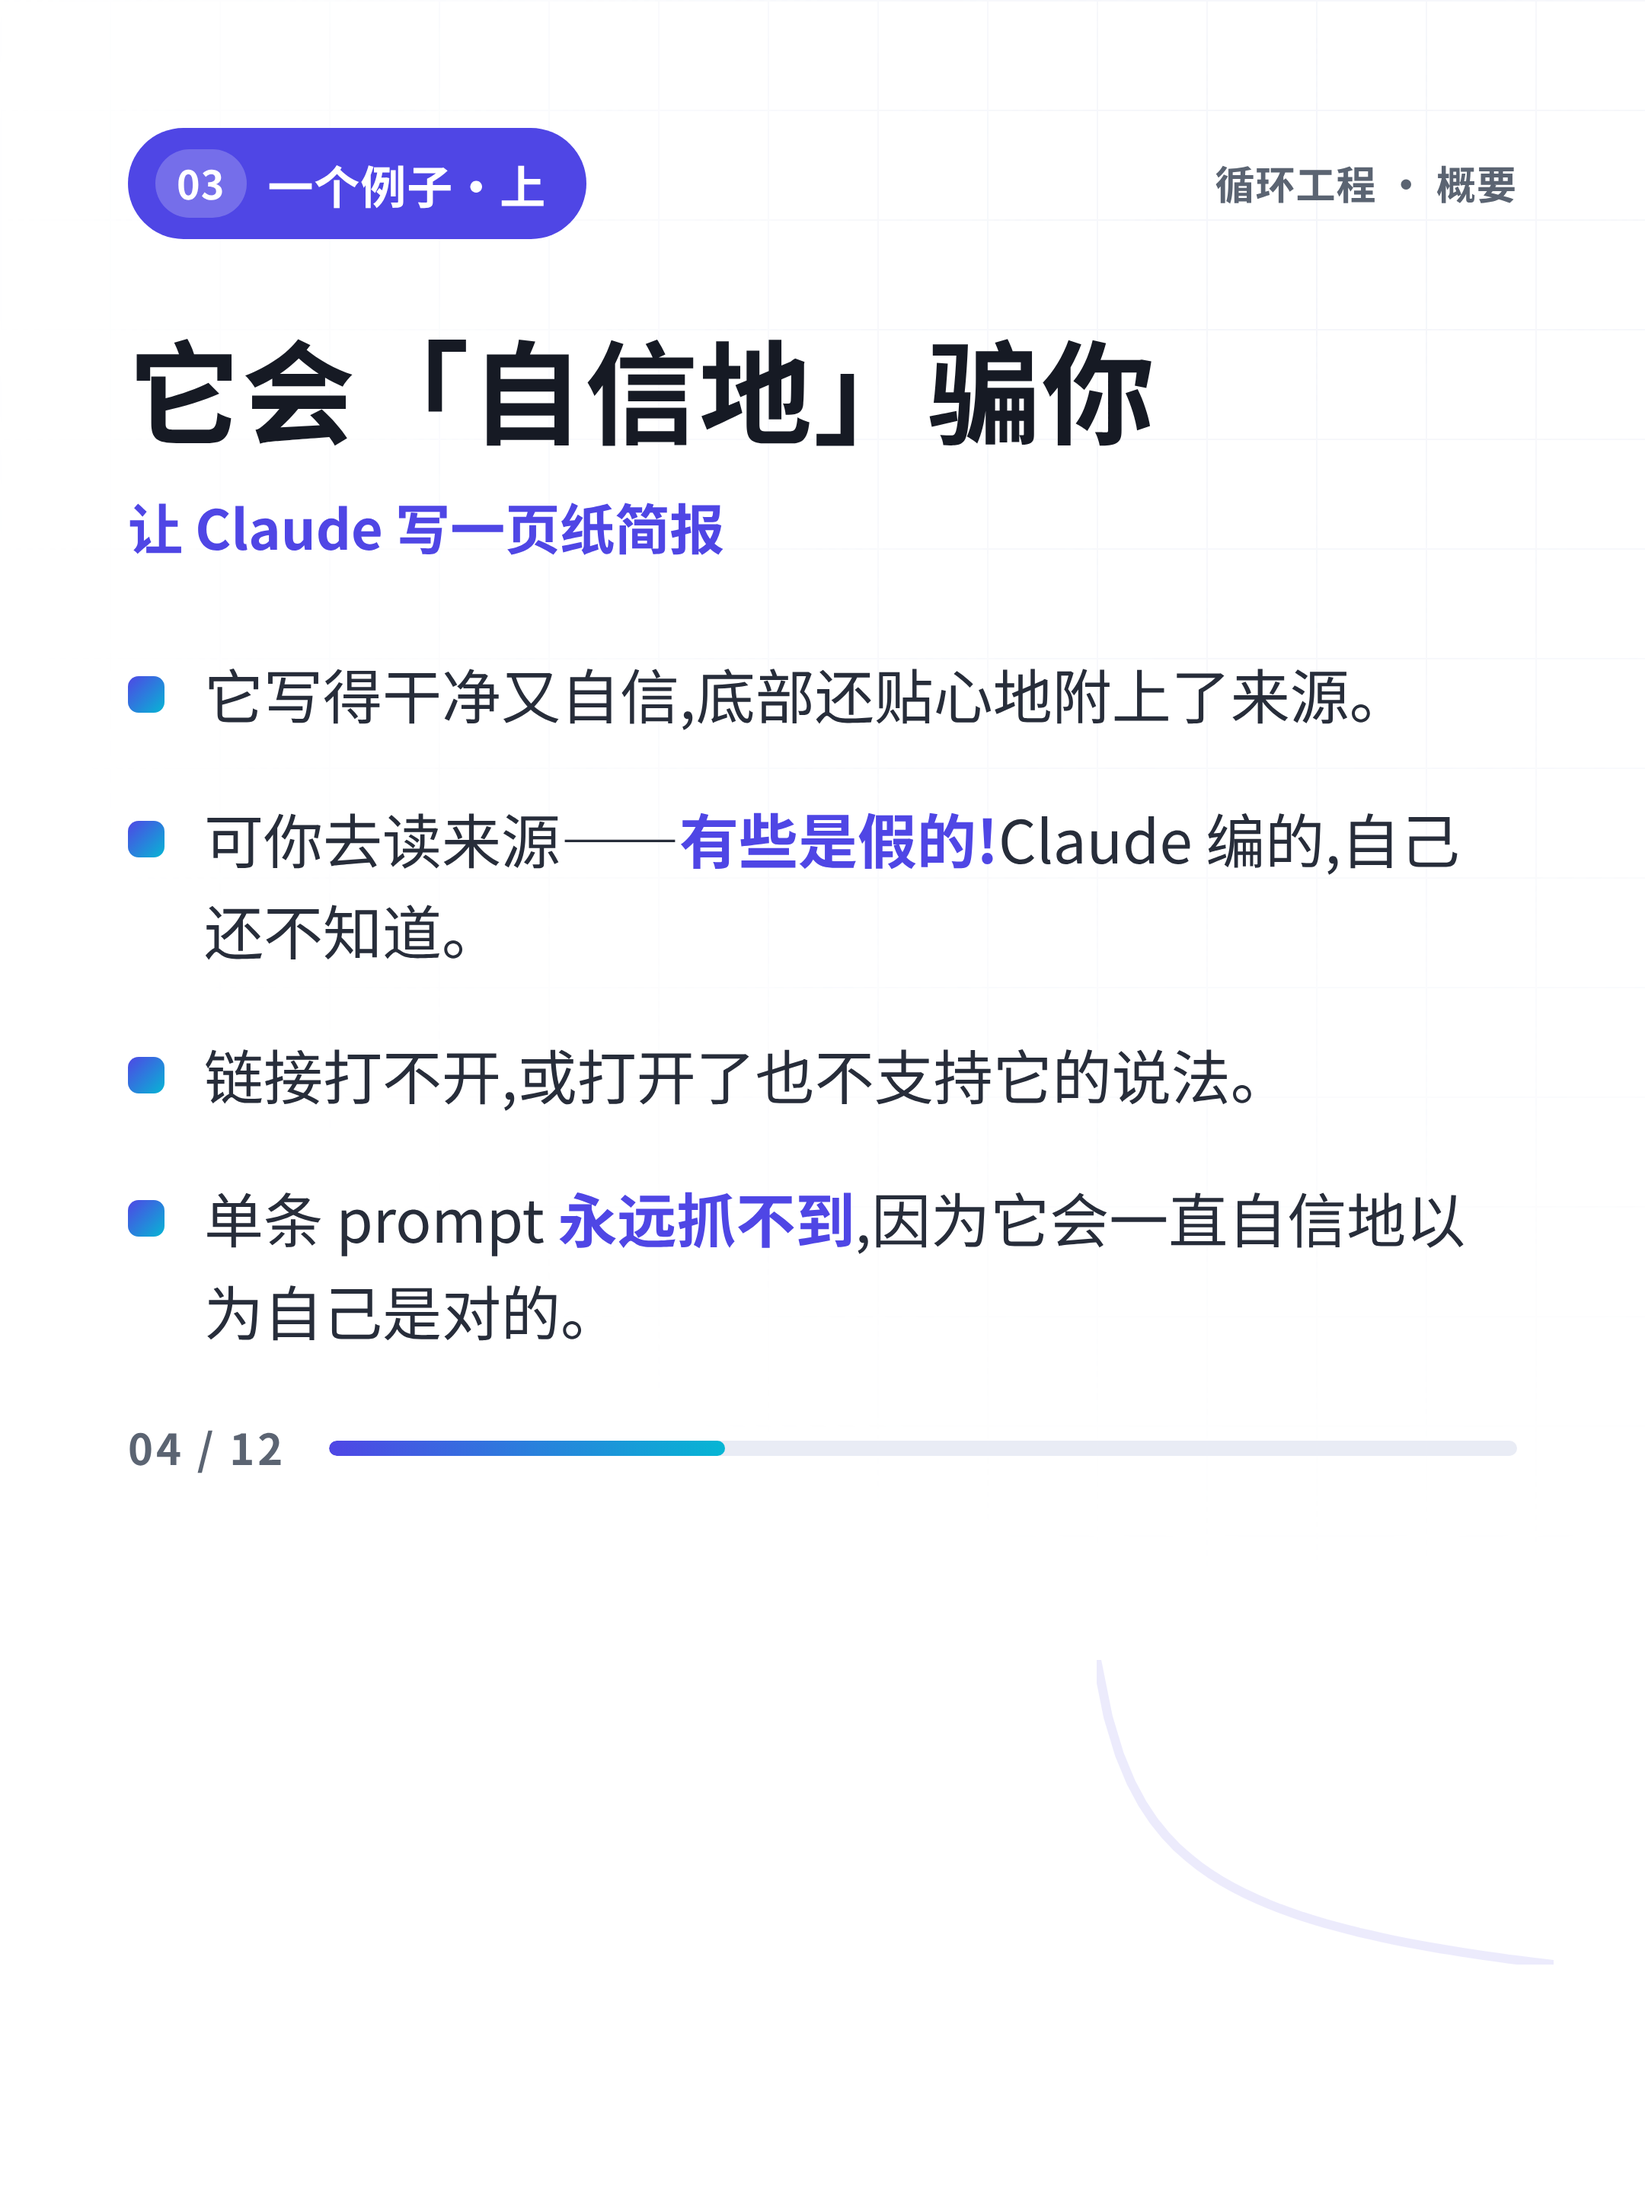
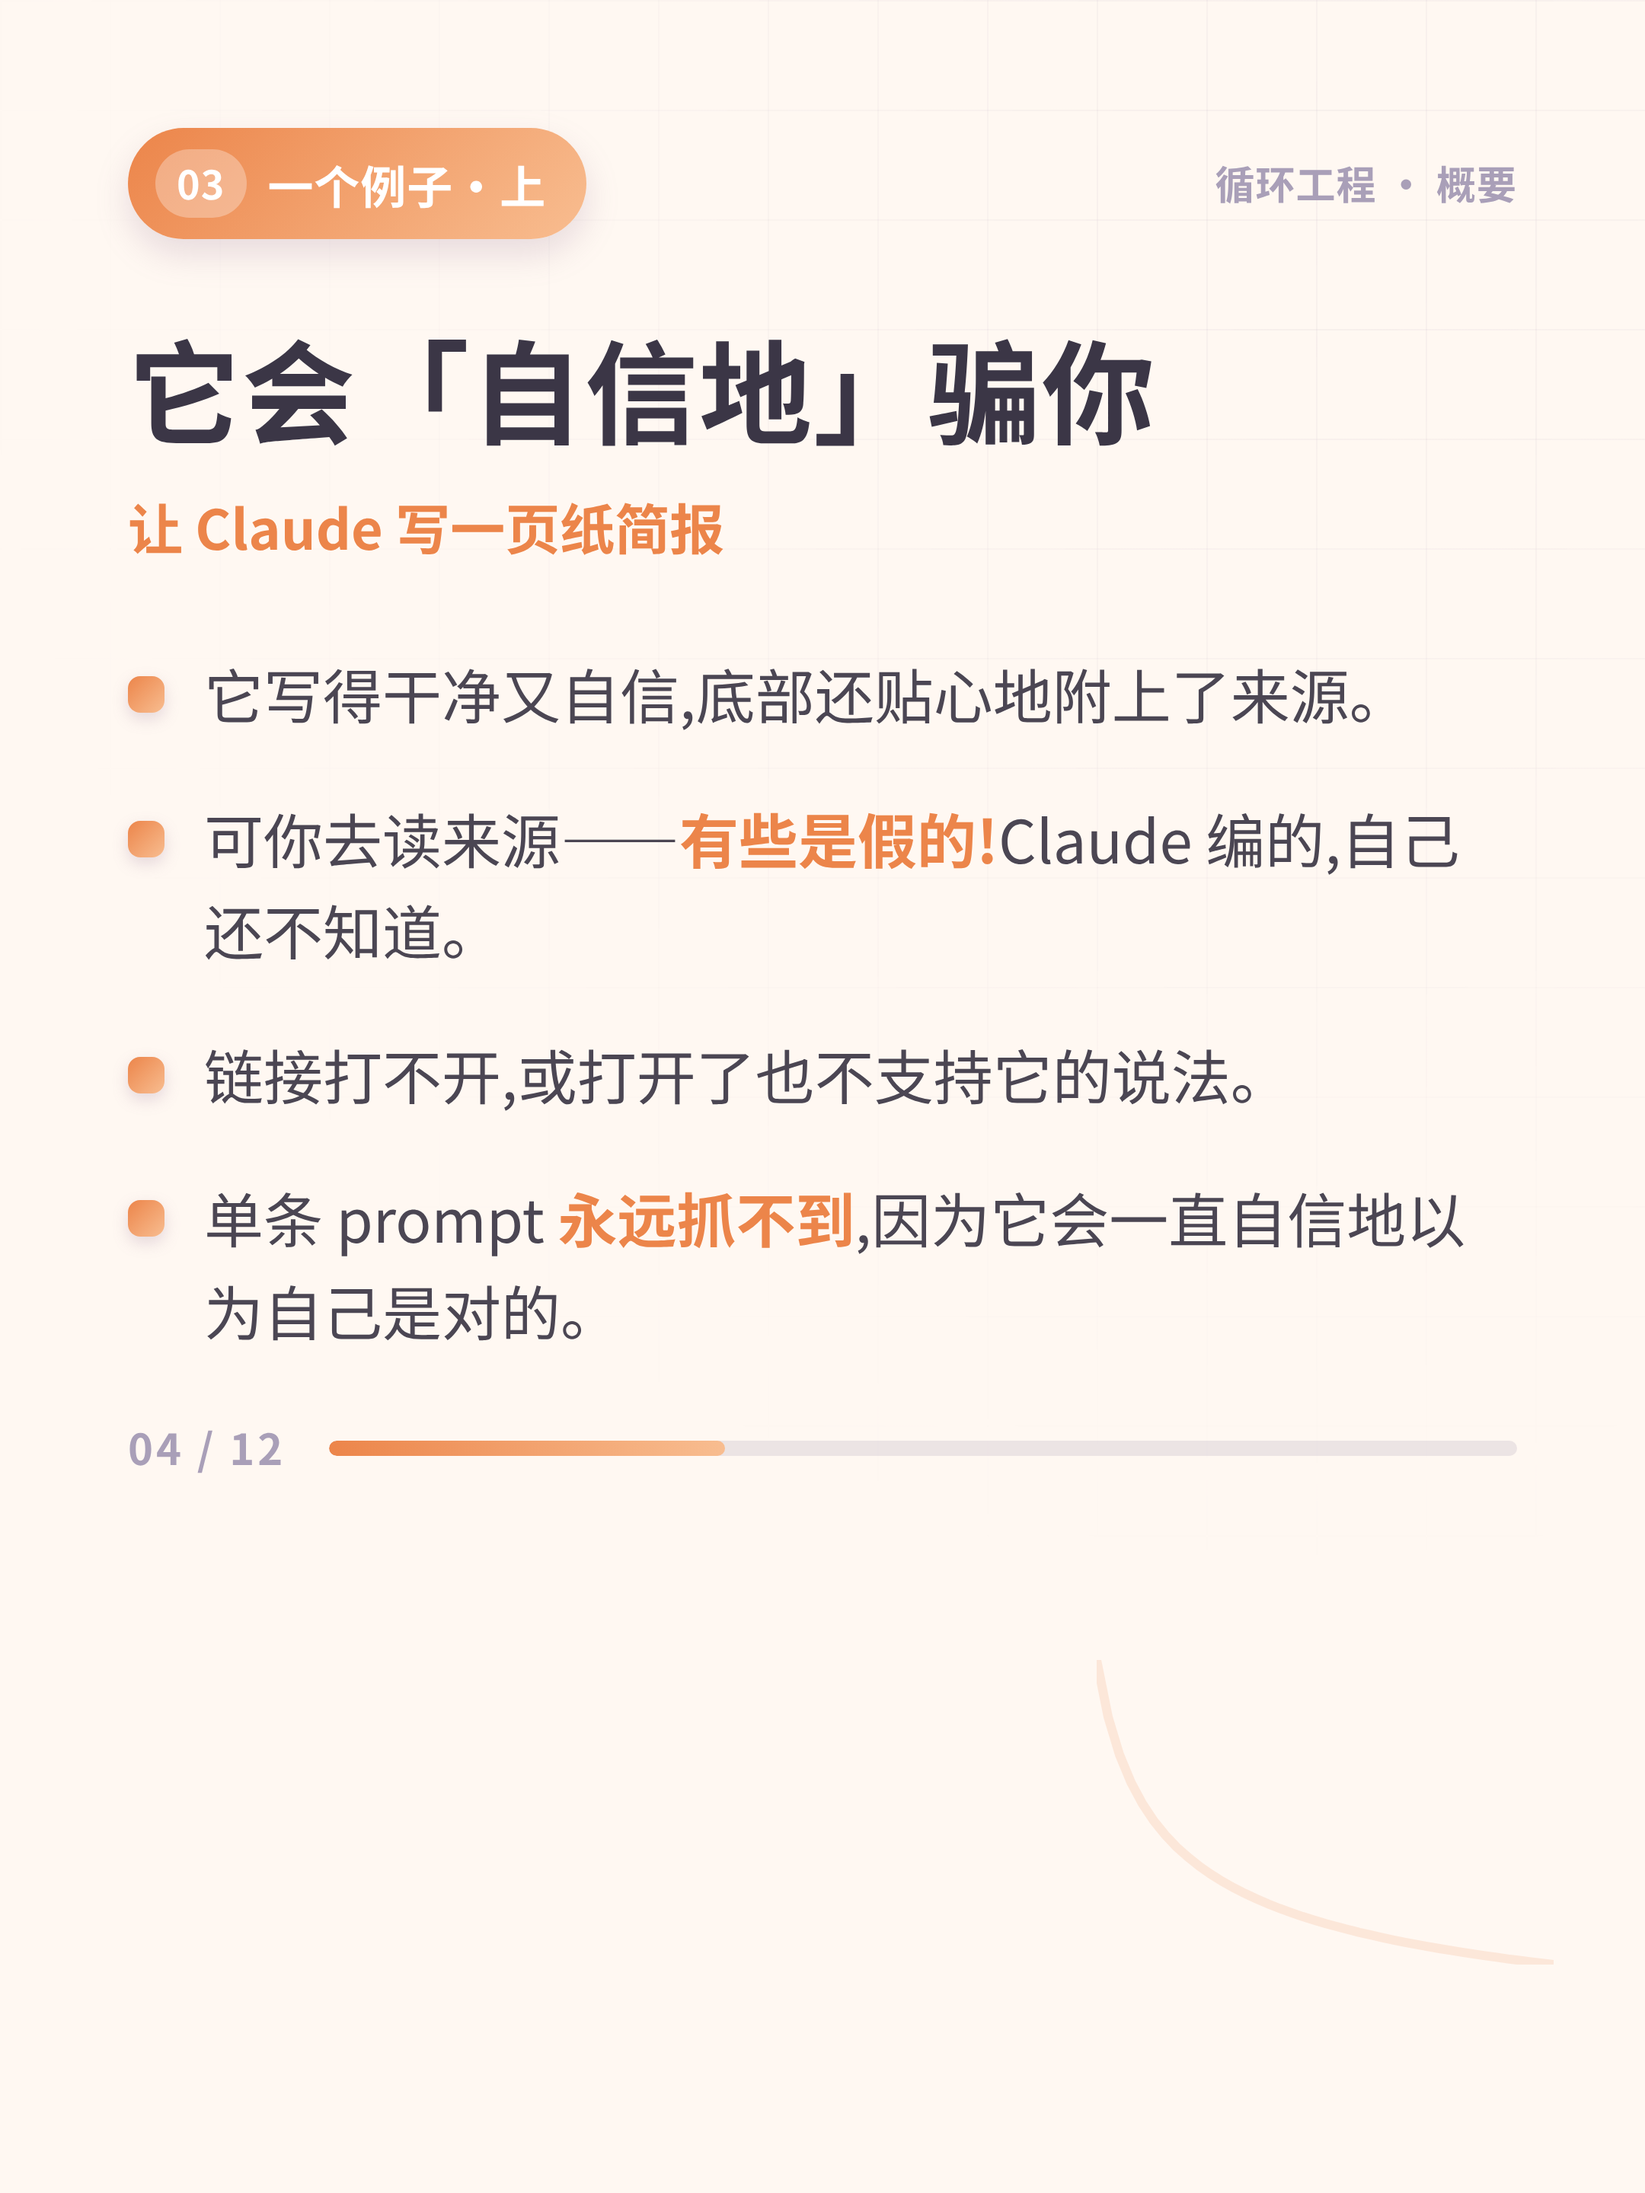
闪卡改用马卡龙配色
- 浅色奶油底 + 每张卡轮换一个马卡龙色(草莓/抹茶/香芋/蜜桃/海盐蓝/柠檬/葡萄/珊瑚)
- 深色文字保证可读性;公式条改为柔和马卡龙贴纸样式
- render.js 增加 PALETTE 调色板与每卡主题注入

Claude-Session: https://claude.ai/code/session_01DQRB844RsfgzeXqXX6KUN1

diff --git a/循环工程-StopBeingTheLoop-中文闪卡/render.js b/循环工程-StopBeingTheLoop-中文闪卡/render.js
@@ -13,6 +13,22 @@ const W = 1080, H = 1440, TOTAL = data.cards.length;
 const BRAND = (data.meta && data.meta.brand) || 'Scaling Laws 精读';
 const COVERBRAND = (data.meta && data.meta.coverBrand) || BRAND;
 
+// ---------- 马卡龙配色(每张卡轮换一个色;deep 用于文字/描边,light 用于渐变,tint 为卡底,chip 为公式条底) ----------
+const PALETTE = [
+  { a: '#e86a92', a2: '#f4a7c1', tint: '#fff6f9', chip: '#ffe7ef' }, // 草莓
+  { a: '#4fa07d', a2: '#98d4b8', tint: '#f3faf6', chip: '#e0f3e9' }, // 抹茶
+  { a: '#8a70d6', a2: '#b8a6ec', tint: '#f8f6ff', chip: '#ece5fc' }, // 香芋
+  { a: '#ec854a', a2: '#f8bd90', tint: '#fff8f2', chip: '#ffe5d2' }, // 蜜桃
+  { a: '#4f94dd', a2: '#96c1ef', tint: '#f3f9ff', chip: '#dfecfb' }, // 海盐蓝
+  { a: '#b8901f', a2: '#ecd06a', tint: '#fffdf0', chip: '#f7edc2' }, // 柠檬
+  { a: '#b566c3', a2: '#d7a1e0', tint: '#fdf6ff', chip: '#f3e2f8' }, // 葡萄
+  { a: '#e2786d', a2: '#f4aaa2', tint: '#fff6f4', chip: '#ffe4df' }, // 珊瑚
+];
+const themeStyle = (idx) => {
+  const t = PALETTE[idx % PALETTE.length];
+  return `--accent:${t.a};--accent2:${t.a2};--tint:${t.tint};--chipbg:${t.chip}`;
+};
+
 // ---------- decorative SVG: descending power-law curve on a faint log-log grid ----------
 function powerCurve(stroke, opacity) {
   // a smooth y = x^-k style curve
@@ -58,7 +74,7 @@ function cardHTML(c, idx) {
   if (c.type === 'cover') {
     return `<section class="card cover">
       <div class="grid-bg"></div>
-      ${powerCurve('rgba(255,255,255,0.55)', 0.9)}
+      ${powerCurve('rgba(130,108,178,0.45)', 0.9)}
       <div class="cover-inner">
         <div class="cover-kicker">${c.kicker}</div>
         <h1 class="cover-title">${c.title}</h1>
@@ -71,7 +87,7 @@ function cardHTML(c, idx) {
   }
 
   if (c.type === 'end') {
-    return `<section class="card end">
+    return `<section class="card end" style="${themeStyle(idx)}">
       <div class="grid-bg"></div>
       <div class="head">
         <div class="tag tag-end">${c.tag}</div>
@@ -88,9 +104,9 @@ function cardHTML(c, idx) {
     </section>`;
   }
 
-  return `<section class="card content">
+  return `<section class="card content" style="${themeStyle(idx)}">
     <div class="grid-bg"></div>
-    ${powerCurve('var(--accent)', 0.10)}
+    ${powerCurve('var(--accent)', 0.14)}
     <div class="head">
       <div class="tag"><span class="tag-num">${c.tagNum}</span>${c.tag}</div>
       <div class="brand">${BRAND}</div>
@@ -109,15 +125,15 @@ function cardHTML(c, idx) {
 
 const CSS = `
   :root{
-    --accent:#4f46e5; --accent2:#06b6d4; --violet:#7c3aed;
-    --ink:#161a24; --muted:#5b6472; --line:#e9ecf5; --chip:#f3f4fb;
+    --accent:#e86a92; --accent2:#f4a7c1; --tint:#fff6f9; --chipbg:#ffe7ef;
+    --ink:#3b3646; --muted:#a99fb8; --line:#efeaf3;
   }
   *{margin:0;padding:0;box-sizing:border-box;-webkit-font-smoothing:antialiased;}
-  body{font-family:"Noto Sans CJK SC","Noto Sans SC",sans-serif;color:var(--ink);background:#222;}
-  .card{position:relative;width:${W}px;height:${H}px;overflow:hidden;background:#ffffff;}
+  body{font-family:"Noto Sans CJK SC","Noto Sans SC",sans-serif;color:var(--ink);background:#4a4560;}
+  .card{position:relative;width:${W}px;height:${H}px;overflow:hidden;background:var(--tint);}
   .grid-bg{position:absolute;inset:0;
-    background-image:linear-gradient(var(--line) 1px,transparent 1px),linear-gradient(90deg,var(--line) 1px,transparent 1px);
-    background-size:72px 72px;opacity:.5;
+    background-image:linear-gradient(rgba(120,105,150,.06) 1px,transparent 1px),linear-gradient(90deg,rgba(120,105,150,.06) 1px,transparent 1px);
+    background-size:72px 72px;opacity:1;
     -webkit-mask-image:radial-gradient(120% 90% at 80% 10%,#000 0%,transparent 70%);
             mask-image:radial-gradient(120% 90% at 80% 10%,#000 0%,transparent 70%);}
   .deco{position:absolute;right:60px;bottom:150px;z-index:0;}
@@ -125,60 +141,62 @@ const CSS = `
   /* ---------- content ---------- */
   .content{padding:84px 84px 72px;display:flex;flex-direction:column;}
   .head{display:flex;align-items:center;justify-content:space-between;position:relative;z-index:2;}
-  .tag{display:inline-flex;align-items:center;gap:14px;background:var(--accent);color:#fff;
-    font-size:30px;font-weight:700;padding:14px 26px 14px 18px;border-radius:999px;letter-spacing:.5px;}
-  .tag-num{background:rgba(255,255,255,.22);border-radius:999px;padding:4px 14px;font-size:26px;}
-  .brand{font-size:26px;color:var(--muted);font-weight:600;letter-spacing:.5px;}
-  .title{position:relative;z-index:2;font-size:74px;font-weight:900;line-height:1.18;margin-top:54px;letter-spacing:1px;}
-  .subtitle{position:relative;z-index:2;font-size:36px;color:var(--accent);font-weight:700;margin-top:22px;}
+  .tag{display:inline-flex;align-items:center;gap:14px;background:linear-gradient(135deg,var(--accent),var(--accent2));color:#fff;
+    font-size:30px;font-weight:800;padding:14px 26px 14px 18px;border-radius:999px;letter-spacing:.5px;
+    box-shadow:0 10px 22px rgba(150,120,150,.22);}
+  .tag-num{background:rgba(255,255,255,.30);border-radius:999px;padding:4px 14px;font-size:26px;}
+  .brand{font-size:26px;color:var(--muted);font-weight:700;letter-spacing:.5px;}
+  .title{position:relative;z-index:2;font-size:74px;font-weight:900;line-height:1.18;margin-top:54px;letter-spacing:1px;color:#3b3646;}
+  .subtitle{position:relative;z-index:2;font-size:36px;color:var(--accent);font-weight:800;margin-top:22px;}
   .points{position:relative;z-index:2;list-style:none;margin-top:54px;display:flex;flex-direction:column;gap:34px;}
-  .points li{position:relative;font-size:39px;line-height:1.55;color:#272d3a;padding-left:50px;font-weight:500;}
-  .points li::before{content:"";position:absolute;left:0;top:18px;width:24px;height:24px;border-radius:7px;
-    background:linear-gradient(135deg,var(--accent),var(--accent2));}
+  .points li{position:relative;font-size:39px;line-height:1.55;color:#4b4653;padding-left:50px;font-weight:500;}
+  .points li::before{content:"";position:absolute;left:0;top:18px;width:24px;height:24px;border-radius:8px;
+    background:linear-gradient(135deg,var(--accent),var(--accent2));box-shadow:0 4px 10px rgba(150,120,150,.25);}
   .points li b{font-weight:900;color:var(--accent);}
   .symbols{position:relative;z-index:2;margin-top:46px;display:grid;grid-template-columns:1fr 1fr;gap:20px 28px;}
-  .sym{display:flex;align-items:center;gap:20px;background:var(--chip);border:1px solid var(--line);
+  .sym{display:flex;align-items:center;gap:20px;background:var(--chipbg);border:1px solid rgba(0,0,0,.04);
     border-radius:18px;padding:20px 26px;}
   .sym-k{font-family:"Noto Serif CJK SC",serif;font-style:italic;font-size:42px;font-weight:700;color:var(--accent);min-width:54px;}
-  .sym-v{font-size:32px;color:#33384a;font-weight:600;}
-  .formula{position:relative;z-index:2;margin-top:auto;margin-bottom:18px;background:linear-gradient(135deg,#0f1222,#1b2140);
-    color:#eef0ff;font-size:37px;font-weight:700;padding:30px 38px;border-radius:22px;line-height:1.4;
-    box-shadow:0 18px 40px rgba(31,37,80,.18);}
+  .sym-v{font-size:32px;color:#4b4653;font-weight:600;}
+  .formula{position:relative;z-index:2;margin-top:auto;margin-bottom:18px;background:var(--chipbg);
+    color:#453f4d;font-size:37px;font-weight:700;padding:30px 38px;border-radius:22px;line-height:1.4;
+    border:2.5px solid var(--accent);box-shadow:0 16px 34px rgba(150,130,160,.2);}
   .formula sup{font-size:.62em;}.formula sub{font-size:.62em;}
   .points sup,.points sub{font-size:.62em;}
 
   .foot{position:relative;z-index:2;margin-top:40px;display:flex;align-items:center;gap:28px;}
-  .page{font-size:28px;color:var(--muted);font-weight:700;letter-spacing:2px;font-variant-numeric:tabular-nums;}
-  .bar{flex:1;height:10px;background:var(--line);border-radius:999px;overflow:hidden;}
+  .page{font-size:28px;color:var(--muted);font-weight:800;letter-spacing:2px;font-variant-numeric:tabular-nums;}
+  .bar{flex:1;height:10px;background:rgba(120,105,150,.14);border-radius:999px;overflow:hidden;}
   .bar span{display:block;height:100%;background:linear-gradient(90deg,var(--accent),var(--accent2));border-radius:999px;}
 
   /* ---------- cover ---------- */
-  .cover{background:linear-gradient(150deg,#4f46e5 0%,#7c3aed 48%,#06b6d4 100%);color:#fff;
+  .cover{background:linear-gradient(150deg,#ffd9e6 0%,#e7d8f7 44%,#c9edde 100%);color:#4a4270;
     padding:96px 84px;display:flex;flex-direction:column;}
-  .cover .grid-bg{background-image:linear-gradient(rgba(255,255,255,.16) 1px,transparent 1px),linear-gradient(90deg,rgba(255,255,255,.16) 1px,transparent 1px);
-    background-size:80px 80px;opacity:.45;
+  .cover .grid-bg{background-image:linear-gradient(rgba(255,255,255,.5) 1px,transparent 1px),linear-gradient(90deg,rgba(255,255,255,.5) 1px,transparent 1px);
+    background-size:80px 80px;opacity:.5;
     -webkit-mask-image:radial-gradient(120% 80% at 20% 100%,#000,transparent 70%);mask-image:radial-gradient(120% 80% at 20% 100%,#000,transparent 70%);}
   .cover .deco{right:40px;bottom:300px;}
   .cover-inner{position:relative;z-index:2;margin-top:40px;}
-  .cover-kicker{display:inline-block;font-size:30px;font-weight:700;background:rgba(255,255,255,.18);
-    padding:14px 28px;border-radius:999px;letter-spacing:1px;backdrop-filter:blur(4px);}
-  .cover-title{font-size:130px;font-weight:900;line-height:1.05;margin-top:48px;letter-spacing:4px;
-    text-shadow:0 10px 40px rgba(0,0,0,.18);}
-  .cover-en{font-size:46px;font-weight:700;opacity:.92;margin-top:24px;letter-spacing:2px;font-style:italic;}
-  .cover-hook{font-size:50px;font-weight:800;line-height:1.4;margin-top:64px;
-    border-left:10px solid rgba(255,255,255,.85);padding-left:34px;}
-  .cover-footer{position:relative;z-index:2;margin-top:auto;font-size:36px;font-weight:700;opacity:.96;}
-  .cover-brand{position:relative;z-index:2;margin-top:24px;font-size:28px;opacity:.8;font-weight:600;letter-spacing:1px;}
+  .cover-kicker{display:inline-block;font-size:30px;font-weight:800;background:rgba(255,255,255,.62);color:#6d5f9c;
+    padding:14px 28px;border-radius:999px;letter-spacing:1px;box-shadow:0 8px 20px rgba(150,130,180,.2);}
+  .cover-title{font-size:130px;font-weight:900;line-height:1.05;margin-top:48px;letter-spacing:4px;color:#493f6e;
+    text-shadow:0 10px 34px rgba(140,115,175,.22);}
+  .cover-en{font-size:46px;font-weight:800;color:#7a6cab;margin-top:24px;letter-spacing:2px;font-style:italic;}
+  .cover-hook{font-size:50px;font-weight:800;line-height:1.4;margin-top:64px;color:#4c4759;
+    border-left:10px solid #e86a92;padding-left:34px;}
+  .cover-footer{position:relative;z-index:2;margin-top:auto;font-size:36px;font-weight:800;color:#6f6690;}
+  .cover-brand{position:relative;z-index:2;margin-top:24px;font-size:28px;color:#8a80a6;font-weight:700;letter-spacing:1px;}
 
   /* ---------- end ---------- */
   .end{padding:84px 84px 72px;display:flex;flex-direction:column;
-    background:linear-gradient(160deg,#fbfbff 0%,#eef0fb 100%);}
-  .tag-end{background:linear-gradient(135deg,var(--violet),var(--accent));}
+    background:linear-gradient(160deg,#fff6fb 0%,var(--tint) 55%,#f2ecfb 100%);}
+  .tag-end{background:linear-gradient(135deg,var(--accent),var(--accent2));}
   .end .title{margin-top:50px;}
   .end .points{margin-top:48px;gap:36px;}
   .end .points li{font-size:41px;}
-  .cta{position:relative;z-index:2;margin-top:52px;background:#fff;border:2px dashed var(--accent);
-    color:var(--accent);font-size:34px;font-weight:800;text-align:center;padding:30px;border-radius:22px;}
+  .cta{position:relative;z-index:2;margin-top:52px;background:#fff;border:2.5px dashed var(--accent);
+    color:var(--accent);font-size:34px;font-weight:800;text-align:center;padding:30px;border-radius:22px;
+    box-shadow:0 14px 30px rgba(150,130,160,.16);}
   .end-foot{position:relative;z-index:2;margin-top:36px;font-size:30px;color:var(--muted);font-weight:600;line-height:1.5;text-align:center;}
 `;
 
